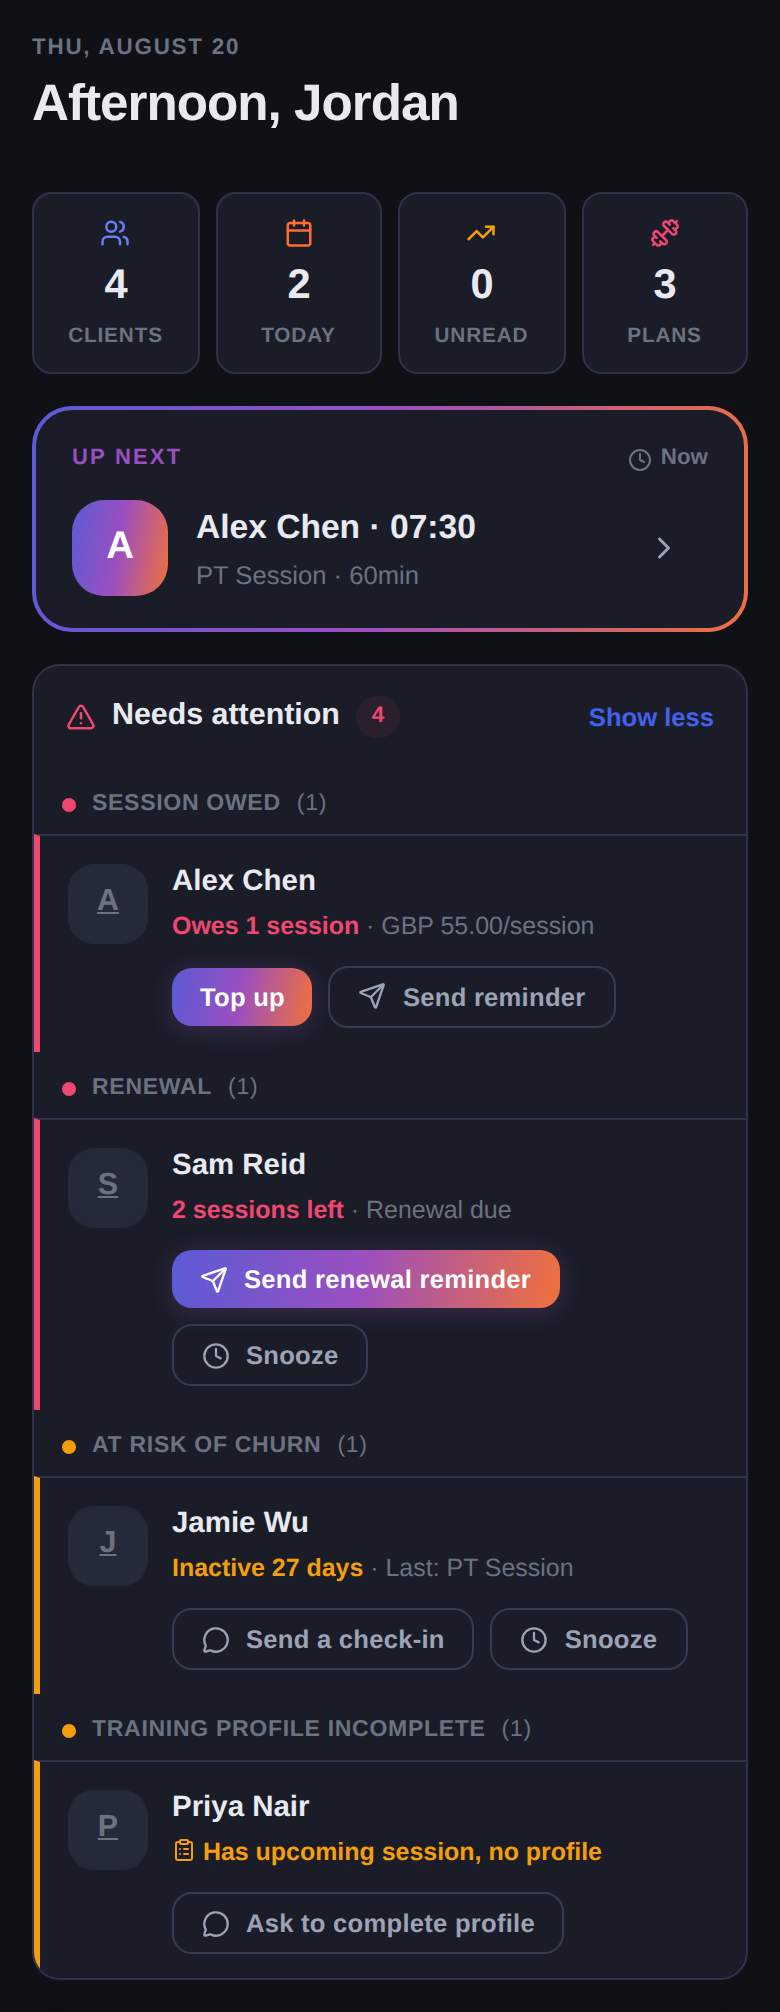
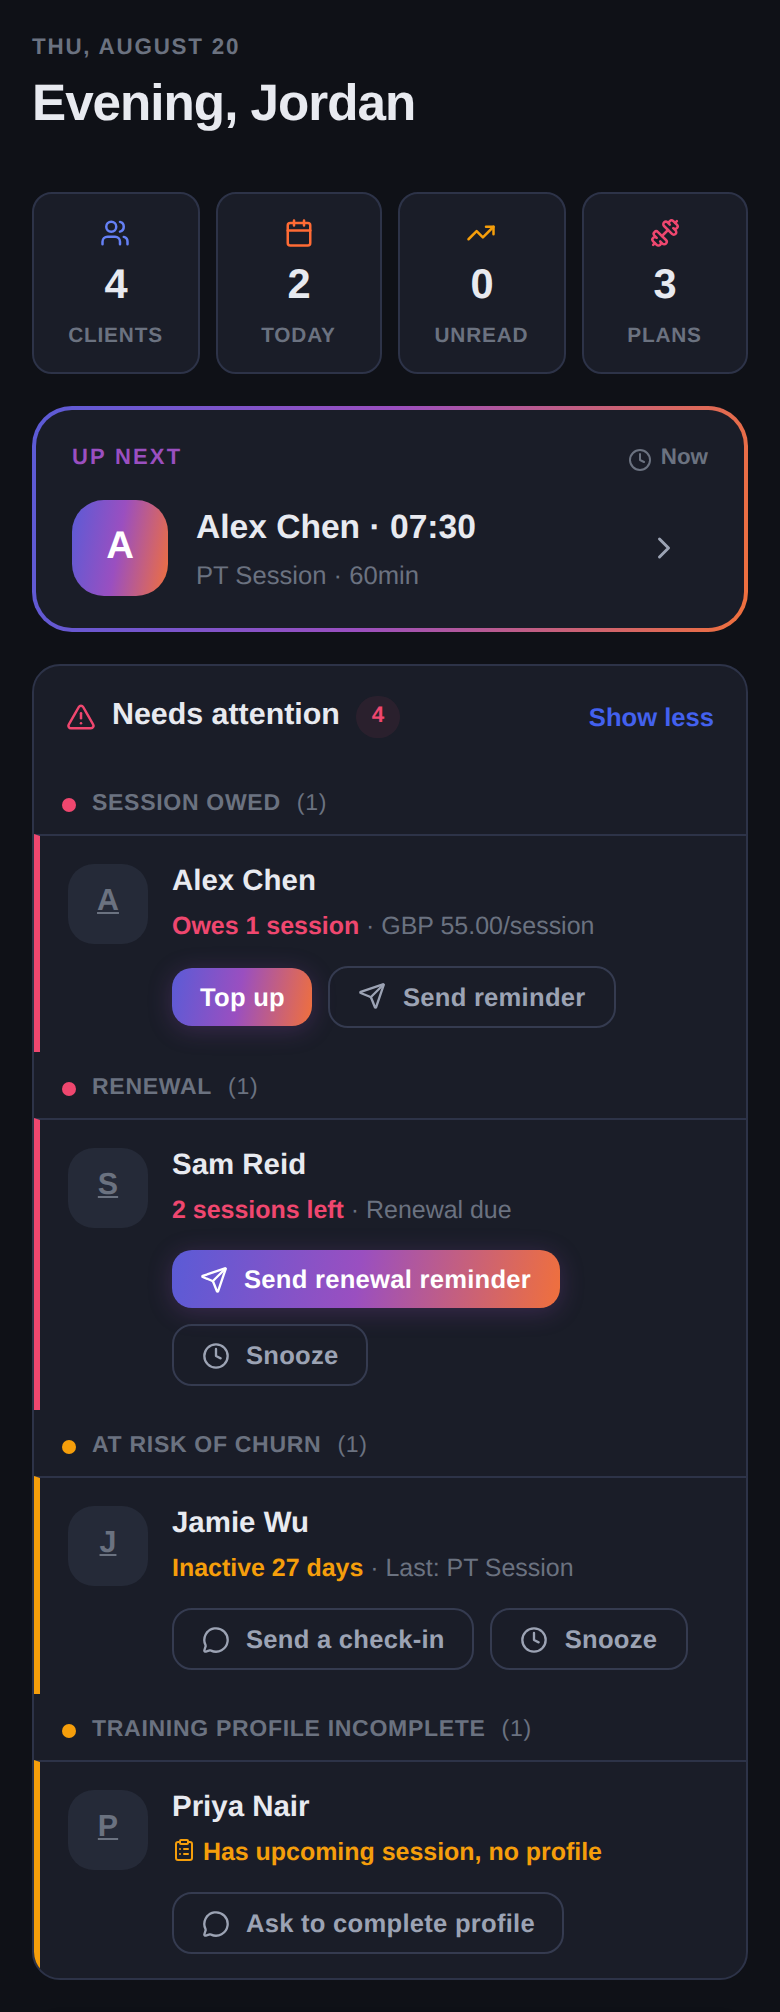
Fix plan names rendering near-black on the dark card
.plan-card-toggle is a bare <button> used as a wrapper. A button does not
inherit colour — the UA stylesheet gives it 'buttontext' — and the plan name
inside is a .card-title, which sets no colour of its own. So every plan name on
Workout Plans rendered in the browser default black against a dark card.
Invisible in light mode, which is why it survived.

Contrast measured in the browser: 1.19:1 before, 13.96:1 after.

Swept the four other bare-button classes with the same shape; none is affected
(.swap-exercise-item and .progression-hint-btn set their own colour,
.bottom-nav-more-btn takes it from .bottom-nav-link, .exercise-picker-item is
unused CSS), so this stays a one-line targeted fix.

Claude-Session: https://claude.ai/code/session_018VLAxMgaDAUHsB9ZDdDGZn

Changed region(s): [[0.0308, 0.0308, 0.5846, 0.0616]]

diff --git a/src/styles/index.css b/src/styles/index.css
@@ -2291,6 +2291,11 @@ tr:hover { background: var(--bg-card-hover); }
   text-align: left;
   padding: 0;
   margin-bottom: 0;
+  /* A <button> does not inherit colour — the UA stylesheet gives it `buttontext`, which is
+     near-black. The plan name inside is a .card-title, which sets no colour of its own, so
+     it was rendering black-on-dark-card in dark mode. Invisible in light mode, which is
+     why it survived. Any bare button used purely as a wrapper needs this. */
+  color: inherit;
 }
 .plan-card-toggle:hover { opacity: 0.85; }
 .bulk-client-checklist {
